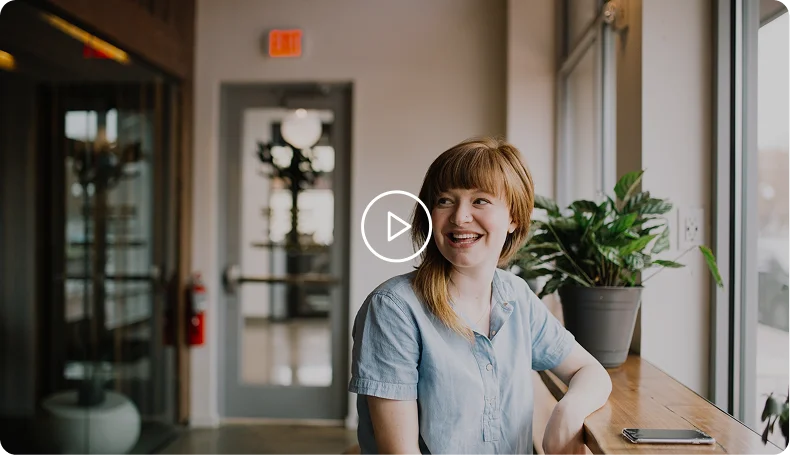
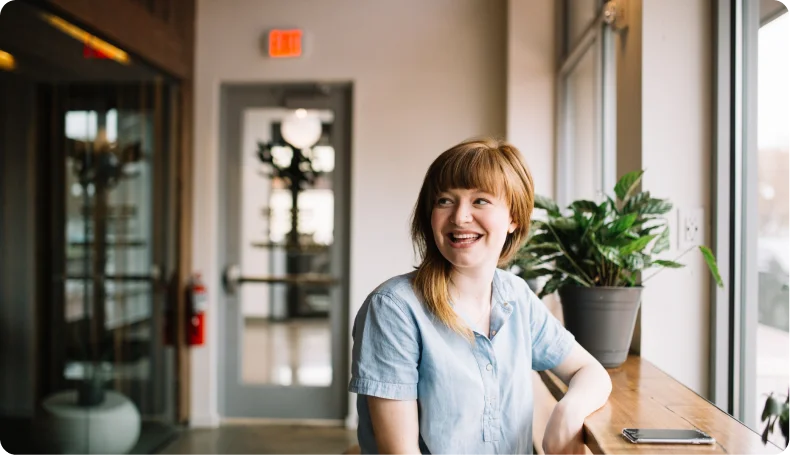
success section

diff --git a/styles/success.css b/styles/success.css
@@ -1,0 +1,105 @@
+.success {
+    background-color: var(--co-dark-green);
+}
+
+.success__wrapper {
+    padding: 220px 0;
+    display: flex;
+    justify-content: space-between;
+    align-items: start;
+    flex-wrap: wrap-reverse;
+    gap: 40px;
+}
+
+.success__content {
+    margin: 50px 0 0 0;
+    max-width: 550px;
+    display: flex;
+    flex-direction: column;
+    /* justify-content: start;
+    align-items: start; */
+    place-items: start;
+    gap: 20px;
+}
+
+.success__title {
+    color: var(--co-white);
+    font-size: 50px;
+    font-weight: 700;
+}
+
+.success__desc {
+    color: var(--co-white);
+    font-size: 25px;
+    font-weight: 600;
+}
+
+.success__content .btn {
+    width: 240px;
+    height: 65px;
+    margin: 50px 0 0 0;
+}
+
+.success__content .btn:hover {
+    outline: 2px solid var(--co-white);
+}
+
+.success__content-video {
+    max-width: 790px;
+    height: 455px;
+    position: relative;
+    border-radius: 16px;
+    overflow: hidden;
+}
+
+.success__cover {
+    width: 100%;
+    height: 100%;
+    object-fit: cover;
+    aspect-ratio: 158/91;
+}
+
+.success__play-icon {
+    position: absolute;
+    z-index: 2;
+    height: 73px;
+    width: 72px;
+    fill: var(--co-white);
+    top: 50%;
+    left: 50%;
+    translate: -50% -50%;
+}
+
+.success__play-icon:hover {
+    fill: var(--co-green);
+    cursor: pointer;
+}
+
+.success__gradient {
+    position: absolute;
+    z-index: 1;
+    inset: 0;
+    background: linear-gradient(100deg, rgba(0,0,0, .1), rgba(0,0,0,.5)) center/cover no-repeat;
+}
+
+@media (max-width: 1370px) {
+    .success__wrapper {
+        justify-content: center;
+    }
+    .success__content {
+        text-align: center;
+        place-items: center start;
+    }
+}
+
+@media (max-width: 576px) {
+    .success__wrapper {
+        padding: 150px;
+    }
+    .success__title {
+        font-size: 32px;
+    }
+    .success__desc {
+        font-size: 20px;
+    }
+}

diff --git a/index.html b/index.html
@@ -91,6 +91,43 @@
                 </div>
             </div>
         </section>
+
+        <section class="success" aria-label="success section">
+            <div class="container">
+                <div class="success__wrapper">
+                    <div class="success__content">
+                        <h3 class="success__title">Let's hear about Kayla's success story</h3>
+                        <p class="success__desc">See how well Alivio works in a real customer`s life. </p>
+                        <button class="btn">Let`s get started</button>
+                    </div>
+
+                    <div class="success__content-video">
+                        <img src="assets/webp/video_cover.webp" class="success__cover" alt="video cover img">
+                        <svg class="success__play-icon" aria-label="play icon">
+                            <use href="assets/sprites.svg#play-icon"></use>
+                        </svg>
+                        <div class="success__gradient"></div>  
+                    </div>
+                </div>                
+            </div>
+        </section>
+
+        <!-- <section class="product">
+            <div class="container">
+                <div class="product__wrapper">
+                    <div class="product__preview">
+                        <img src="assets/webp/photo_card.webp" alt="product preview" class="product__prewiew-img">
+                    </div>
+
+                    <div class="product__content">
+                        <h5 class="product__info"></h5>
+                        <h4 class="product__title"></h4>
+                        <p class="product__desc"></p>
+                        <button class="btn"></button>
+                    </div>
+                </div>
+            </div>
+        </section> -->
     </main>
 </body>
 </html>

diff --git a/index.css b/index.css
@@ -4,3 +4,5 @@
 @import url('styles/hero.css');
 @import url('styles/about.css');
 @import url('styles/card.css');
+@import url('styles/product.css');
+@import url('styles/success.css');
